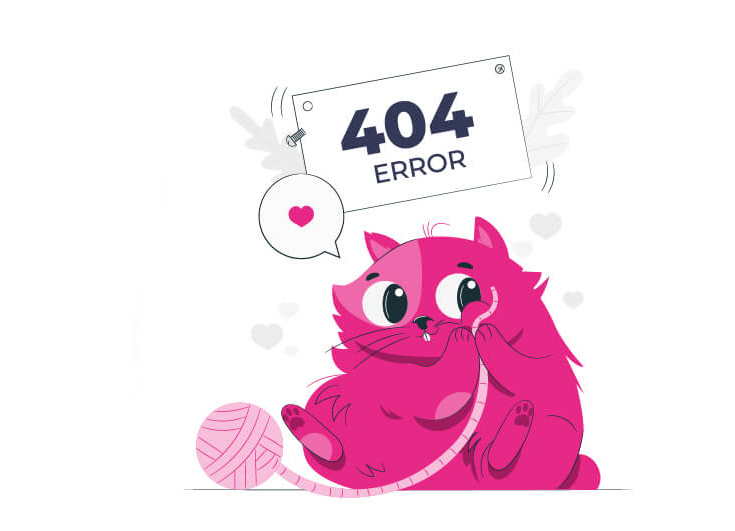
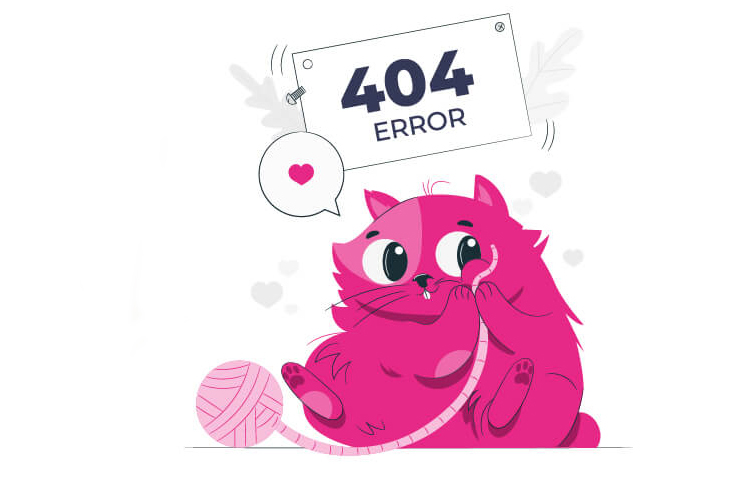
error en cortes y 404

diff --git a/index.html b/index.html
@@ -68,7 +68,7 @@
               <div class="containerHome">
               <div class="row vh-100 align-items-center container contAll">
                 <div class="col-lg-1 col-md-1 col-sm-0"></div>
-                <div class="col-lg-10 col-md-auto col-sm-auto homeMain">
+                <div class="col-lg-10 col-md-10 col-sm-10 homeMain">
                    <div class="parrafoHome ">
                     <p class="renglonUno" data-aos="fade-down" data-aos-duration="2000">Si estas buscando CRECER, </p>
                     <p class="renglonDos"data-aos="fade-right" data-aos-duration="2000">RENOVARTE,</p>
@@ -116,7 +116,7 @@
                 <div class="row r-porfolio">
                   <h2 class="text-center mt-5 tituloSectionporfolio">Porfolio</h2>
                   <div class="col-lg-10  col-md-10 col-sm-12 galeriaContenedor">
-                      <div class="r-impreso" data-aos="fade-up" data-aos-duration="2000" data-aos-anchor-placement="center-bottom"> 
+                      <div class="r-impreso"> 
                               <h3 class="text-center mt-5 tituloSectionimpreso">Trabajos Impresos</h3>
                               <div class="row r-impresoitems">
                               <div class="col-lg-3 col-md-6 col-sm-10 galleryItem my-2 col-item"><img src="img/IMGejemplo_1.jpg" loading="lazy" style="max-width:100%;width:auto;height:auto;" class="img-fluid" loading="lazy" alt="imagen que describe la toma de deciones al hacer un proyecto de marketing"></div>
@@ -125,7 +125,7 @@
                               <div class="col-lg-3 col-md-6 col-sm-10 galleryItem my-2 col-item"><img src="img/IMGejemplo_4.jpg" loading="lazy" style="max-width:100%;width:auto;height:auto;" class="img-fluid" loading="lazy"  alt="imagen que muestra un trabajo creativo puramente visual. Contraste de colores"></div>
                              </div>
                       </div>
-                      <div class="r-redes" data-aos="fade-up" data-aos-duration="2000" data-aos-anchor-placement="center-bottom">
+                      <div class="r-redes">
                              <h3 class="text-center mt-5 tituloSectionredes">·RRSS</h3>
                              <div class="row r-redesitems">
                             <div class="col-lg-3 col-md-6 col-sm-10 galleryItem my-2 col-item"><img src="img/IMGejemplo_5.jpg" loading="lazy" style="max-width:100%;width:auto;height:auto;" class="img-fluid" loading="lazy" alt="imagen creativa estilo iconográfica, sintesis de imagen un ojo"></div>
@@ -134,7 +134,7 @@
                             <div class="col-lg-3 col-md-6 col-sm-10 galleryItem my-2 col-item"><img src="img/IMGejemplo_8.jpg" loading="lazy" style="max-width:100%;width:auto;height:auto;" class="img-fluid" loading="lazy" alt="imagen que muestra un proceso creativo, sonde todas las ideas creativas salen del Diseñador Gráfico"></div>
                              </div>
                       </div>
-                      <div class="r-web" data-aos="fade-up" data-aos-duration="2000" data-aos-anchor-placement="center-bottom">
+                      <div class="r-web">
                             <h3 class="text-center mt-5 tituloSectionweb" >·WEB</h3>
                            <div class="row  r-webitems">
                             <div class="col-lg-3 col-md-6 col-sm-10 galleryItem my-2 col-item"><img src="img/IMGejemplo_9.jpg" loading="lazy" style="max-width:100%;width:auto;height:auto;" class="img-fluid" loading="lazy" alt="imagen que muestra una opción divertida de logo"></div>
@@ -155,7 +155,7 @@
               <div class="containerItemsServicios container">
                 <div class="row align-items-center r-Servicios">
                   <h2 class="tituloSectionservicios">Servicios</h2>
-                  <div class="col-lg-12 col-sm-10 col-sm-12 ">
+                  <div class="col-lg-12 col-md-10 col-sm-12 ">
                     <div class="row row-cols-1 row-cols-md-2 g-4">
                       <div class="col">
                         <div class="card">
@@ -245,7 +245,7 @@
             <section id="contacto" class="containerContacto">
               <div class="container containerItemscontacto">
                 <div class="row">
-                  <div class="col-lg-6 datosContacto">
+                  <div class="col-lg-6 col-md-5 col-sm-12 datosContacto">
                     <h2 class="tituloContacto">CONTACTO</h2>
                     <div class="txtImg">
                       <div class="txt">
@@ -265,7 +265,7 @@
 
 
                   </div>
-                  <div class="col-lg-6 formularioContacto"><form>
+                  <div class="col-lg-6 col-md-5 col-sm-12 formularioContacto"><form>
                     <div class="mb-3">
                       <h3 class="tituloContacto">No dudes en contactarme!</h3>
                       <label for="exampleInputEmail1" class="form-label">E-mail</label>
@@ -287,9 +287,9 @@
             -------------------------------------------------------------------------------------------------------------------------->
             <footer class="contenedor">
               <div class="footerContainerItems d-flex row">
-                <div class="col-lg-3 col-ms-2 col-sm-12 logoFooter"><img src="img/logoBlancoimpulsar.png" loading="lazy" alt="logo Impulsar"></div>
-                <div class="col-lg-5 col-ms-5 col-sm-12 copyRigths"> - © 2021 Copyright: Elena Osuna -</div>
-                <div class="col-lg-3 col-ms-3 col-sm-12 reDes">
+                <div class="col-lg-3 col-md-2 col-sm-12 logoFooter"><img src="img/logoBlancoimpulsar.png" loading="lazy" alt="logo Impulsar"></div>
+                <div class="col-lg-5 col-md-5 col-sm-12 copyRigths"> - © 2021 Copyright: Elena Osuna -</div>
+                <div class="col-lg-3 col-md-3 col-sm-12 reDes">
                   <a href="https://www.linkedin.com/in/elena-vanesa-osuna-785778118/"><img src="img/footer_linkeding.png" loading="lazy"  alt="imagen enlace que indica la cuenta a likeding"></a>
                   <a href="https://www.behance.net/osunaelena_impulsar"><img src="img/footer_behane.png" loading="lazy" alt="imagen enlace que lleva a la cuenta de behance"></a>
                 </div>

diff --git a/404.html b/404.html
@@ -28,8 +28,9 @@
   </head>
 <body>
     <div class="errorItems row">
-      <div class="col-lg-12 col-ms-8 col-sm-10 contentError">
+      <div class="col-lg-10 col-md-8 col-sm-10 contentError">
         <div class="gatito404">
+          <img src="img/error404.jpg" alt="error 404 Página no encontrada">
           <h1>Volver a la página principal</h1> 
          </div>
        </div>
@@ -39,9 +40,9 @@
     -------------------------------------------------------------------------------------------------------------------------->
     <footer class="contenedor">
       <div class="footerContainerItems d-flex row">
-        <div class="col-lg-3 col-ms-2 col-sm-12 logoFooter"> <a href="index.html"> <img src="img/logoBlancoimpulsar.png" loading="lazy" alt="logo Impulsar que me devuelve al home"> </a> </div>
-        <div class="col-lg-5 col-ms-5 col-sm-12 copyRigths"> - © 2021 Copyright: Elena Osuna -</div>
-        <div class="col-lg-3 col-ms-3 col-sm-12 reDes">
+        <div class="col-lg-3 col-md-2 col-sm-12 logoFooter"> <a href="index.html"> <img src="img/logoBlancoimpulsar.png" loading="lazy" alt="logo Impulsar que me devuelve al home"> </a> </div>
+        <div class="col-lg-5 col-md-5 col-sm-12 copyRigths"> - © 2021 Copyright: Elena Osuna -</div>
+        <div class="col-lg-3 col-md-3 col-sm-12 reDes">
           <a href="https://www.linkedin.com/in/elena-vanesa-osuna-785778118/"><img src="img/footer_linkeding.png" loading="lazy" alt="imagen enlace que indica la cuenta a likeding"></a>
           <a href="https://www.behance.net/osunaelena_impulsar"><img src="img/footer_behane.png" loading="lazy" alt="imagen enlace que lleva a la cuenta de behance"></a>
         </div>

diff --git a/css/style.css b/css/style.css
@@ -126,9 +126,9 @@ main .containerHome .contAll .btnWhatsapp {
   background-position: center;
   background-size: cover;
   object-fit: contain;
-  width: 5em;
-  height: 5em;
-  right: 40px;
+  width: 4em;
+  height: 4em;
+  right: 30px;
   bottom: 60px;
   z-index: 1;
 }
@@ -389,24 +389,17 @@ footer .footerContainerItems .reDes {
 }
 
 .errorItems {
-  background-image: url("../img/error404.jpg");
-  background-repeat: no-repeat;
   width: 100%;
-  padding: 10em;
-  background-position: center;
-  background-size: cover;
-  object-fit: contain;
-  display: flex;
-  justify-content: flex-end;
-  align-items: center;
+  margin: 0 auto;
 }
 .errorItems .contentError {
   display: flex;
-  padding: 50px;
 }
 .errorItems .contentError .gatito404 {
   width: 100%;
-  margin: 0 250px 0 0;
+  margin: auto;
+  display: flex;
+  flex-direction: column;
 }
 .errorItems .contentError .gatito404 h1 {
   color: #FF069F;

diff --git a/scss/components/_error404.scss b/scss/components/_error404.scss
@@ -1,23 +1,14 @@
 .errorItems{
-    background-image: url("../img/error404.jpg");
-    background-repeat: no-repeat;
     width: 100%;
-    padding: 10em;
-    background-position: center;
-    background-size:cover;
-    object-fit: contain;
-    display: flex;
-    justify-content:flex-end;
-    align-items: center;
-
+    margin: 0 auto;
     .contentError{
         display: flex;
-        padding: 50px;
 
         .gatito404{
             width: 100%;
-            margin: 0 250px 0 0;
-            
+            margin:auto;
+            display: flex;
+            flex-direction: column;
             
             h1{
                 color:$color-rosa;

diff --git a/scss/components/_home.scss b/scss/components/_home.scss
@@ -91,9 +91,9 @@ main{
                 background-position: center;
                 background-size:cover;
                 object-fit: contain;
-                width: 5em;
-                height: 5em;
-                right: 40px;
+                width: 4em;
+                height: 4em;
+                right: 30px;
                 bottom: 60px;
                 z-index: 1;
 

diff --git a/scss/components/_header.scss b/scss/components/_header.scss
@@ -27,5 +27,6 @@ header{
                 }
             }
         }
+
     }
 }
